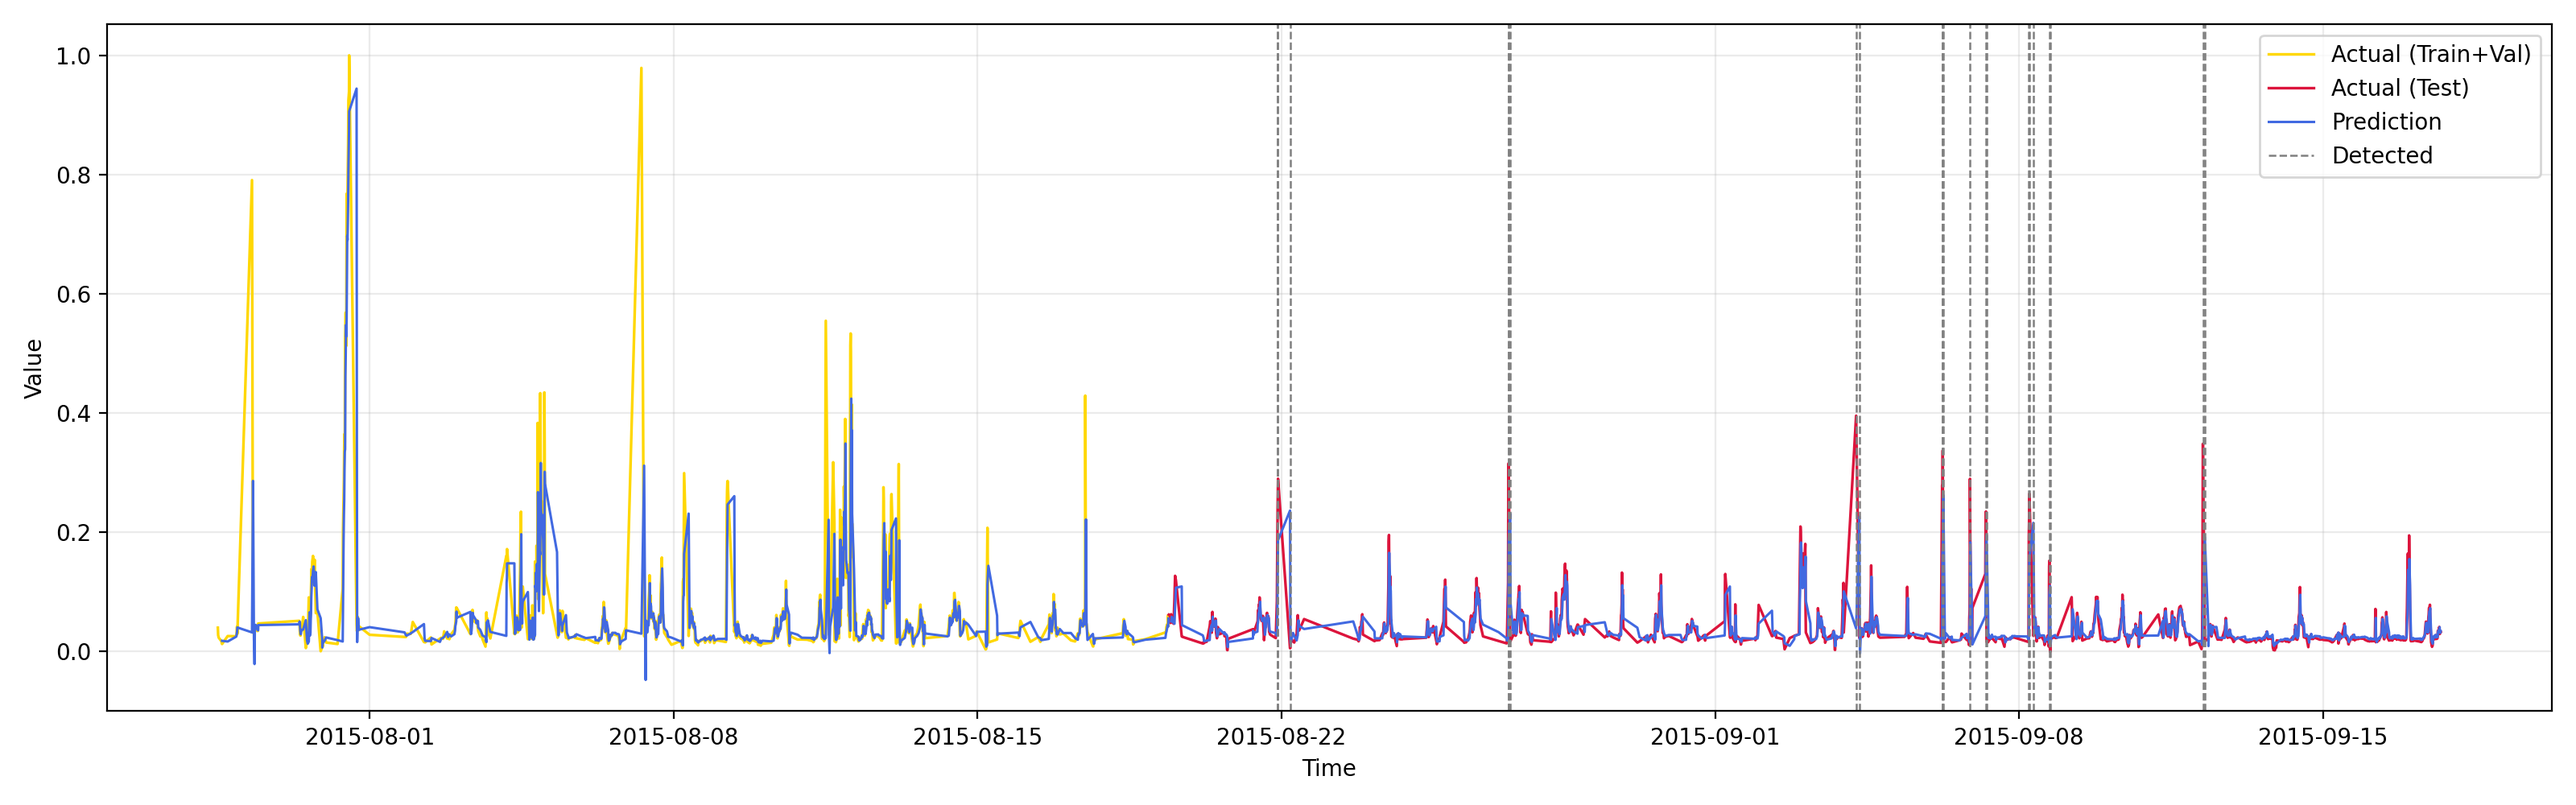
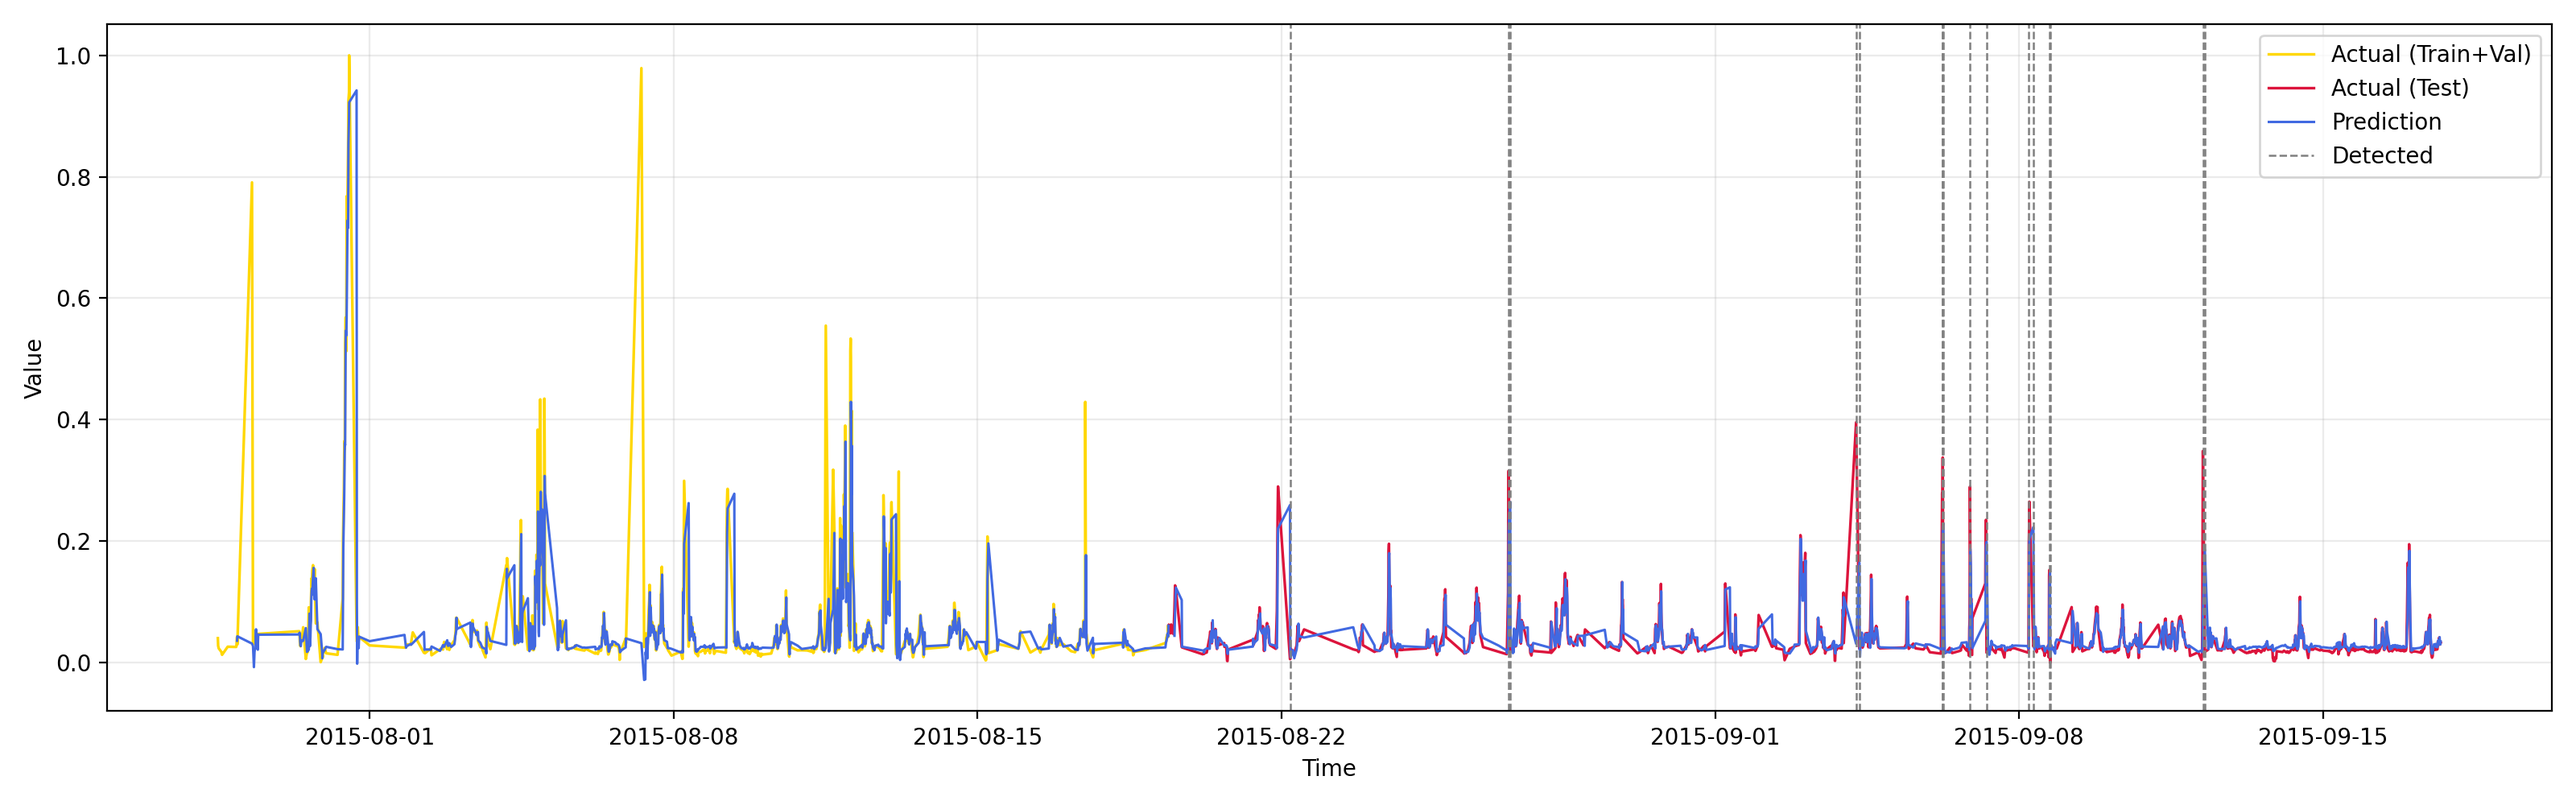
feat: seed 고정

diff --git a/experiments/univariate/run.py b/experiments/univariate/run.py
@@ -1,3 +1,5 @@
+import os
+import random
 import numpy as np
 import torch
 
@@ -7,6 +9,14 @@ from model.detector import AnomalyDetecter
 from .data import load, split, loaders
 from .train import train
 from .plot import plot
+
+def set_seed(seed: int = 42, deterministic: bool = True):
+    os.environ["PYTHONHASHSEED"] = str(seed)
+    random.seed(seed)
+    np.random.seed(seed)
+
+    torch.manual_seed(seed)
+    torch.cuda.manual_seed_all(seed)
 
 
 def collect_scores(detector: AnomalyDetecter, loader, device) -> np.ndarray:
@@ -43,6 +53,7 @@ def predict_segment(
 
 def run(
     csv_path="data/TravelTime_451.csv",
+    seed=42,
     p_w=1,
     conv_kernel_size=5,
     epochs=50,
@@ -54,6 +65,7 @@ def run(
     k=2.0,  #k-sigma
     out_path="experiments/univariate/images/result_plot.png",
 ):
+    set_seed(seed)
     device = torch.device("cuda" if torch.cuda.is_available() else "cpu")
 
     ts, values = load(csv_path)
